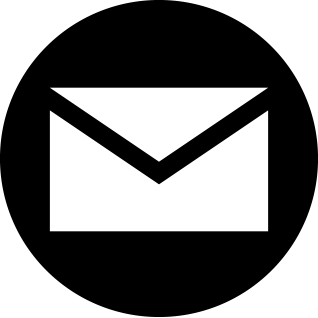
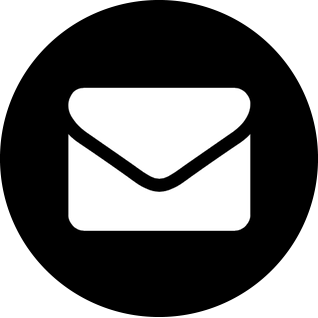
#342 applied required changes and created the new coming soon page.

Changed region(s): [[0.1415, 0.2547, 0.8491, 0.7358]]

diff --git a/templates/registration/done.html b/templates/registration/done.html
@@ -4,39 +4,58 @@
 {% load bootstrap3 %}
 
 {% block content %}
+
 <div class="row">
     <div class="col-lg-6 col-lg-offset-3 col-md-8 col-md-offset-2 col-sm-10 col-sm-offset-1 col-xs-12">
         <h1>{% blocktrans %}Thank you!{% endblocktrans %}</h1>
     </div>
 </div>
+
+
 <div class="row">
     <div class="col-lg-8 col-lg-offset-2 col-md-10 col-md-offset-1 col-sm-12 col-xs-12">&nbsp;</div>
 </div>
 
 <div class="row">
-    <div class="col-lg-3 col-lg-offset-3 col-md-4 col-md-offset-2 col-sm-5 col-sm-offset-1 col-xs-12">
+    <div class="col-lg-6 col-lg-offset-3 col-md-8 col-md-offset-2 col-sm-10 col-sm-offset-1 col-xs-12">
         <p class="lead">
             {% blocktrans trimmed %}
-            Thanks for making the decision to register as an organ and/or tissue donor. ORGANIZE is currently submitting your registration on your behalf to your state based registry. We will be in touch shortly with an update.
+            You're amazing and officially one of our favorite people on the internet, but you’re not quite done…
             {% endblocktrans %}
         </p>
         <p class="lead">
             {% blocktrans trimmed %}
-            In the meantime tell the world you support organ donation on social:
+            It’s super important that your friends and fam know that you want to #DonateYourParts. Even though you registered with us, your next of kin will still be asked to support your decision.
+            Letting them know what you’ve decided now makes it SO much easier for them.
             {% endblocktrans %}
         </p>
         <div class="social-icons">
+            <a href="mailto:" class="email-icon">&nbsp;</a>
             <a href="https://twitter.com/intent/tweet?text=Made+a+big+move+today+%26+became+a+registered+organ+donor.+@organ_ize+was+super+easy+%26+now+I+can+%23DonateMyParts+ORGANIZE.org" class="twitter-icon">&nbsp;</a>
             <a href="https://www.facebook.com/Organize?app_data=%7B%22organization_id%22%3A2200%2C%22referring_action_id%22%3A5270%2C%22fb_referrer_uid%22%3Anull%2C%22source%22%3Anull%7D&v=app_335652843138116" class="facebook-icon">&nbsp;</a>
-            <a href="http://instagram.com/organ_ize" class="instagram-icon">&nbsp;</a>
         </div>
+        <div class="start-campaign-section">
+            <p class="lead">
+                {% blocktrans trimmed %}
+                or
+                {% endblocktrans %}
+            </p>
+            <p class="lead">
+                {% blocktrans trimmed %}
+                <a href="#">Start Your Own Campaign</a>
+                {% endblocktrans %}
+            </p>
+        </div>
+        <p class="lead">
+            {% blocktrans trimmed %}
+            Your donor wishes have been recorded. ORGANIZE retains a copy of your entire registry history for record keeping purposes, but this, most recent decision will supersede any previous registration decisions you have made with us.
+            {% endblocktrans %}
+        </p>
+
     </div>
 
-    <div class="visible-xs col-lg-3 col-lg-offset-3 col-md-4 col-md-offset-2 col-sm-5 col-sm-offset-1 col-xs-12">&nbsp</div>
+    <div class="visible-xs col-lg-3 col-md-4 col-sm-5 col-xs-12">&nbsp;</div>
 
-    <div class="col-lg-3 col-md-4 col-sm-5 col-xs-12 text-center">
-        <center><img src="{% static 'images/congratulations-animated.gif' %}" class="img-responsive" /></center>
-    </div>
 </div>
 
 <div class="row">
@@ -44,7 +63,7 @@
 </div>
 <div class="row">
     <div class="col-lg-6 col-lg-offset-3 col-md-8 col-md-offset-2 col-sm-10 col-sm-offset-1 col-xs-12">
-        <p class="hashtag-large text-center">#REGIFTMYLIFE</p>
+        <p class="hashtag-large text-center">#DONATEMYPARTS</p>
     </div>
 </div>
 

diff --git a/templates/registration/coming_soon.html b/templates/registration/coming_soon.html
@@ -1,0 +1,55 @@
+{% extends 'base.html' %}
+{% load i18n %}
+{% load staticfiles %}
+{% load bootstrap3 %}
+
+{% block content %}
+
+<div class="row">
+    <div class="col-lg-6 col-lg-offset-3 col-md-8 col-md-offset-2 col-sm-10 col-sm-offset-1 col-xs-12">
+        <h1>{% blocktrans %}Coming Soon{% endblocktrans %}</h1>
+    </div>
+</div>
+
+
+<div class="row">
+    <div class="col-lg-8 col-lg-offset-2 col-md-10 col-md-offset-1 col-sm-12 col-xs-12">&nbsp;</div>
+</div>
+
+<div class="row">
+    <div class="col-lg-6 col-lg-offset-3 col-md-8 col-md-offset-2 col-sm-10 col-sm-offset-1 col-xs-12">
+        <p class="lead">
+            {% blocktrans trimmed %}
+            We're building out this super rad feature, but it's just not quite done yet. We'll let you know as soon as it is!
+            {% endblocktrans %}
+        </p>
+    </div>
+
+    <div class="visible-xs col-lg-3 col-md-4 col-sm-5 col-xs-12">&nbsp;</div>
+
+</div>
+
+{% endblock %}
+
+{% block script %}
+<!-- Google Code for Registration Conversion Page -->
+<script type="text/javascript">
+    /* <![CDATA[ */
+    var google_conversion_id = 911750952;
+    var google_conversion_language = "en";
+    var google_conversion_format = "3";
+    var google_conversion_color = "ffffff";
+    var google_conversion_label = "Wyk4CPG8q1kQqO7gsgM";
+    var google_remarketing_only = false;
+    /* ]]> */
+</script>
+<script type="text/javascript" src="//www.googleadservices.com/pagead/conversion.js"></script>
+<noscript>
+    <div style="display:inline;">
+    <img height="1" width="1" style="border-style:none;" alt="" src="//www.googleadservices.com/pagead/conversion/911750952/?label=Wyk4CPG8q1kQqO7gsgM&amp;guid=ON&amp;script=0"/>
+    </div>
+</noscript>
+<script src="{% static 'js/jquery.maskedinput.min.js' %}"></script>
+<script src="{% static 'js/jquery.placeholder.min.js' %}"></script>
+<script src="{% static 'js/main.js' %}"></script>
+{% endblock %}

diff --git a/static/css/base.css b/static/css/base.css
@@ -250,9 +250,19 @@ hr {
     margin: 0;
 }
 
-.social-icons {
+.social-icons, .start-campaign-section {
     text-align: center;
     margin-top: 20px;
+}
+
+a.email-icon {
+    background: #fff url("../images/email.png") no-repeat top center;
+    height: 100px;
+    width: 28%;
+    background-size: contain;
+    display: inline-block;
+    text-decoration: none;
+    margin: 0 5px;
 }
 
 a.twitter-icon {
@@ -267,16 +277,6 @@ a.twitter-icon {
 
 a.facebook-icon {
     background: #fff url("../images/facebook.png") no-repeat top center;
-    height: 100px;
-    width: 28%;
-    background-size: contain;
-    display: inline-block;
-    text-decoration: none;
-    margin: 0 5px;
-}
-
-a.instagram-icon {
-    background: #fff url("../images/instagram.png") no-repeat top center;
     height: 100px;
     width: 28%;
     background-size: contain;

diff --git a/templates/registration/register_minor.html b/templates/registration/register_minor.html
@@ -44,7 +44,7 @@
 </div>
 <div class="row">
     <div class="col-lg-6 col-lg-offset-3 col-md-8 col-md-offset-2 col-sm-10 col-sm-offset-1 col-xs-12">
-        <p class="hashtag-large text-center">#REGIFTMYLIFE</p>
+        <p class="hashtag-large text-center">#DONATEMYPARTS</p>
     </div>
 </div>
 

diff --git a/templates/registration/update_done.html b/templates/registration/update_done.html
@@ -44,7 +44,7 @@
 </div>
 <div class="row">
     <div class="col-lg-6 col-lg-offset-3 col-md-8 col-md-offset-2 col-sm-10 col-sm-offset-1 col-xs-12">
-        <p class="hashtag-large text-center">#REGIFTMYLIFE</p>
+        <p class="hashtag-large text-center">#DONATEMYPARTS</p>
     </div>
 </div>
 

diff --git a/registration/urls.py b/registration/urls.py
@@ -29,6 +29,10 @@ urlpatterns = django.conf.urls.patterns(
             template_name='registration/update_choice.html'),
         name='update_choice'),
     django.conf.urls.url(
+        r'^coming-soon/$', django.views.generic.TemplateView.as_view(
+            template_name='registration/coming_soon.html'),
+        name='done'),
+    django.conf.urls.url(
         r'^reset-minor/$',
         views.ResetMinorCookieDocument.as_view(),
         name='reset_minor'),
